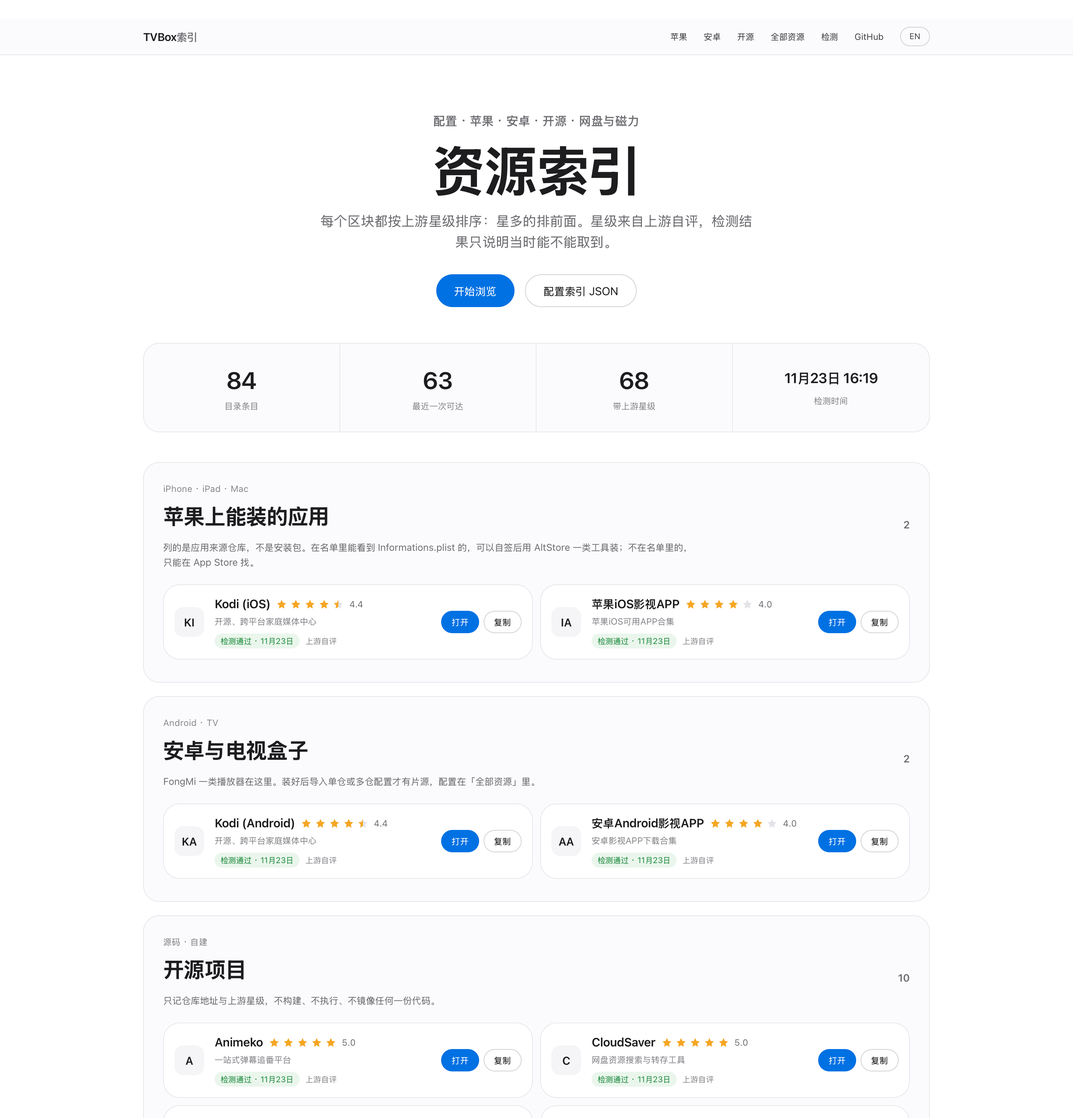
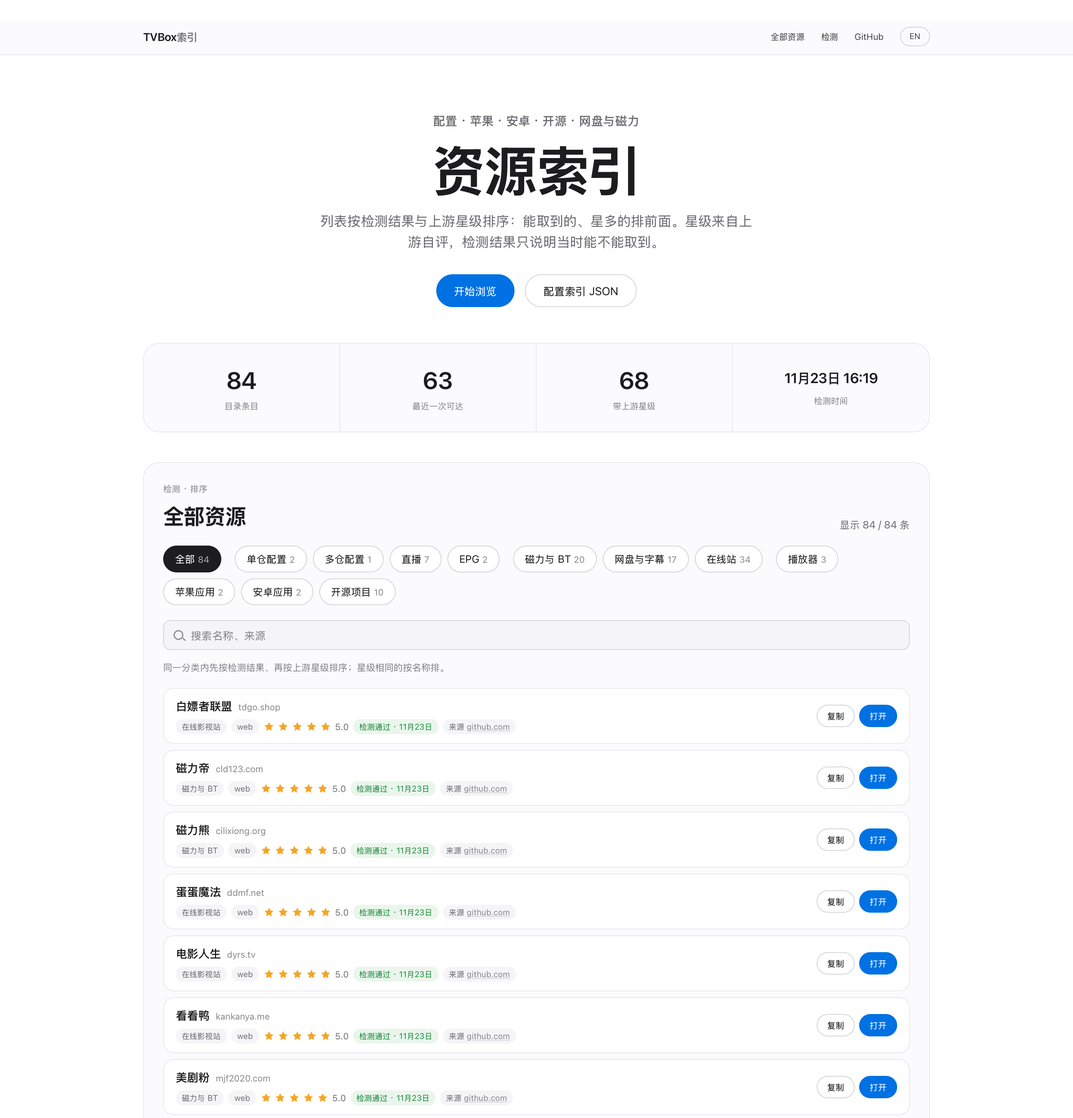
Collapse the four panels into one catalog panel with category tabs
Every entry was rendered twice — once in a hero card section, once in the
list. The sections also gave two-item categories a full-width band. Drop
them: one panel, twelve tabs with counts, one rendering per row.

Tab groups separate config, live, browser, app and repository entries. Sort
order, rating glyphs and probe display are unchanged.

diff --git a/app.js b/app.js
@@ -19,14 +19,6 @@ const CATALOGS = [
   { file: 'catalog/online.json', category: 'online' },
 ];
 
-// Cards are shown only where they hold something: the rest is the sortable list.
-const PANELS = {
-  apple: ['apps-ios'],
-  android: ['apps-android'],
-  opensource: ['tools'],
-  web: ['online', 'search', 'magnet', 'apps'],
-};
-
 const IMPORTABLE = new Set(['vod-single', 'vod-multi', 'live', 'epg']);
 const WEB_ONLY = new Set(['online', 'magnet', 'search', 'apps', 'tools']);
 const CONFIG_INDEX_IDS = new Set(['tvapi-plus-custom-single', 'xiaoma-tvbox-config']);
@@ -40,28 +32,16 @@ const STAR_DEFS = `<svg class="star-defs" aria-hidden="true" width="0" height="0
 
 const TEXT = {
   zh: {
-    navApple: '苹果', navAndroid: '安卓', navOpenSource: '开源', navCatalog: '全部资源', navVerification: '检测',
+    navCatalog: '全部资源', navVerification: '检测',
     heroEyebrow: '配置 · 苹果 · 安卓 · 开源 · 网盘与磁力',
     heroTitle: '资源索引',
-    heroSub: '每个区块都按上游星级排序：星多的排前面。星级来自上游自评，检测结果只说明当时能不能取到。',
+    heroSub: '列表按检测结果与上游星级排序：能取到的、星多的排前面。星级来自上游自评，检测结果只说明当时能不能取到。',
     explore: '开始浏览', openIndex: '配置索引 JSON',
     statTotal: '目录条目', statReachable: '最近一次可达', statRated: '带上游星级', statChecked: '检测时间',
-    panelAppleEyebrow: 'iPhone · iPad · Mac',
-    panelAppleTitle: '苹果上能装的应用',
-    panelAppleLead: '列的是应用来源仓库，不是安装包。在名单里能看到 Informations.plist 的，可以自签后用 AltStore 一类工具装；不在名单里的，只能在 App Store 找。',
-    panelAndroidEyebrow: 'Android · TV',
-    panelAndroidTitle: '安卓与电视盒子',
-    panelAndroidLead: 'FongMi 一类播放器在这里。装好后导入单仓或多仓配置才有片源，配置在「全部资源」里。',
-    panelOpenSourceEyebrow: '源码 · 自建',
-    panelOpenSourceTitle: '开源项目',
-    panelOpenSourceLead: '只记仓库地址与上游星级，不构建、不执行、不镜像任何一份代码。',
-    panelWebEyebrow: '浏览器 · 无需安装',
-    panelWebTitle: '在线站与搜索',
-    panelWebLead: '网盘、字幕与磁力搜索都是网页入口，复制到播放器里不会生效。',
     listEyebrow: '检测 · 排序',
     listTitle: '全部资源',
     allCategories: '全部', single: '单仓配置', multi: '多仓配置', live: '直播', epg: 'EPG',
-    magnet: '磁力与 BT', searchSites: '网盘与字幕', onlineSites: '在线站', apps: '播放器', tools: '工具', via: '来源',
+    magnet: '磁力与 BT', searchSites: '网盘与字幕', onlineSites: '在线站', apps: '播放器', "apps-ios": '苹果应用', "apps-android": '安卓应用', tools: '开源项目', via: '来源',
     searchLabel: '搜索资源', searchPlaceholder: '搜索名称、来源',
     result: (shown, total) => `显示 ${shown} / ${total} 条`,
     hintAll: '同一分类内先按检测结果、再按上游星级排序；星级相同的按名称排。',
@@ -91,28 +71,16 @@ const TEXT = {
     loadError: '目录文件读取失败，请刷新重试。',
   },
   en: {
-    navApple: 'Apple', navAndroid: 'Android', navOpenSource: 'Open source', navCatalog: 'All resources', navVerification: 'Checks',
+    navCatalog: 'All resources', navVerification: 'Checks',
     heroEyebrow: 'Configs · Apple · Android · Open source · Cloud & magnet',
     heroTitle: 'Resource index',
-    heroSub: 'Every section is ordered by the upstream star rating, highest first. Stars are the upstream self-assessment; a check only says the URL answered.',
+    heroSub: 'The list is ordered by check result, then by upstream stars: reachable and well-rated first. Stars are the upstream self-assessment; a check only says the URL answered.',
     explore: 'Start browsing', openIndex: 'Config index JSON',
     statTotal: 'Catalog entries', statReachable: 'Reachable last check', statRated: 'With upstream stars', statChecked: 'Checked',
-    panelAppleEyebrow: 'iPhone · iPad · Mac',
-    panelAppleTitle: 'Apps for Apple devices',
-    panelAppleLead: 'These are app repositories, not installers. If a repository lists Informations.plist you can sign it yourself and install with a tool like AltStore; anything else has to come from the App Store.',
-    panelAndroidEyebrow: 'Android · TV',
-    panelAndroidTitle: 'Android and TV boxes',
-    panelAndroidLead: 'FongMi-style players live here. They need a single or multi config before there is anything to watch; configs are under All resources.',
-    panelOpenSourceEyebrow: 'Source · self-host',
-    panelOpenSourceTitle: 'Open-source projects',
-    panelOpenSourceLead: 'Repository links and upstream stars only. Nothing is built, executed or mirrored.',
-    panelWebEyebrow: 'Browser · nothing to install',
-    panelWebTitle: 'Streaming sites and search',
-    panelWebLead: 'Cloud-drive, subtitle and magnet search sites are browser destinations; pasting them into a player does nothing.',
     listEyebrow: 'Checks · order',
     listTitle: 'All resources',
     allCategories: 'All', single: 'Single config', multi: 'Multi config', live: 'Live', epg: 'EPG',
-    magnet: 'Magnet & BT', searchSites: 'Cloud search & subs', onlineSites: 'Streaming sites', apps: 'Players', tools: 'Tools', via: 'via',
+    magnet: 'Magnet & BT', searchSites: 'Cloud search & subs', onlineSites: 'Streaming sites', apps: 'Players', "apps-ios": 'Apple apps', "apps-android": 'Android apps', tools: 'Open source', via: 'via',
     searchLabel: 'Search resources', searchPlaceholder: 'Search name or source',
     result: (shown, total) => `Showing ${shown} of ${total}`,
     hintAll: 'Within a category: passing checks first, then the higher upstream rating, then name.',
@@ -199,12 +167,6 @@ function displayHost(value) {
   }
 }
 
-function initials(name) {
-  const trimmed = String(name || '?').trim();
-  const latin = trimmed.match(/[A-Za-z0-9]+/g);
-  return latin ? latin.map((part) => part[0]).join('').slice(0, 2) : trimmed.slice(0, 1);
-}
-
 function starRow(average) {
   if (typeof average !== 'number' || !Number.isFinite(average)) return '';
   const rounded = Math.round(Math.max(0, Math.min(5, average)) * 2) / 2;
@@ -249,30 +211,12 @@ function sortEntries(list, probeIds) {
   });
 }
 
-function actionsFor(entry, compact) {
+function actionsFor(entry) {
   const href = safeHref(entry.url);
   if (!href) return '';
   const copy = `<button class="act" type="button" data-copy-url="${escapeHTML(entry.url)}">${escapeHTML(t().copy)}</button>`;
-  const open = `<a class="act act--fill" href="${escapeHTML(href)}" target="_blank" rel="noreferrer" title="${escapeHTML(`${t().open}: ${entry.name}`)}">${escapeHTML(compact ? t().open : t().open)}</a>`;
-  return compact ? open + copy : copy + open;
-}
-
-function renderCard(entry, rank) {
-  const href = safeHref(entry.url);
-  const notes = String(entry.notes || '').replace(/^Upstream description:\s*/i, '').split(/(?<=。)|\.\s/)[0];
-  const rating = ratingOf(entry) === null ? '' : starRow(ratingOf(entry));
-  return `<li class="card${rank <= 3 && entry.rating ? ' card--rank' : ''}">
-    <span class="card-icon" aria-hidden="true">${escapeHTML(initials(entry.name))}</span>
-    <div class="card-body">
-      <div class="card-head">
-        ${href ? `<a class="card-name" href="${escapeHTML(href)}" target="_blank" rel="noreferrer">${escapeHTML(entry.name)}</a>` : `<span class="card-name">${escapeHTML(entry.name)}</span>`}
-        ${rating}
-      </div>
-      <p class="card-desc">${escapeHTML(notes || entry.url)}</p>
-      <div class="card-foot">${probeChip(entry)}<span class="rating-label">${escapeHTML(t().ratedAs)}</span></div>
-    </div>
-    <div class="card-actions">${actionsFor(entry, true)}</div>
-  </li>`;
+  const open = `<a class="act act--fill" href="${escapeHTML(href)}" target="_blank" rel="noreferrer" title="${escapeHTML(`${t().open}: ${entry.name}`)}">${escapeHTML(t().open)}</a>`;
+  return copy + open;
 }
 
 function renderRow(entry) {
@@ -301,7 +245,7 @@ function renderRow(entry) {
         ${source}
       </div>
     </div>
-    <div class="row-actions">${actionsFor(entry, false)}</div>
+    <div class="row-actions">${actionsFor(entry)}</div>
   </article>`;
 }
 
@@ -309,18 +253,6 @@ function reachableIds() {
   const ids = new Set(entries.map((entry) => entry.id));
   return new Set((probeReport?.probes || [])
     .filter((probe) => probe.status === 'ok' && ids.has(probe.id)).map((probe) => probe.id));
-}
-
-function renderPanels() {
-  const passed = reachableIds();
-  Object.entries(PANELS).forEach(([panel, categories]) => {
-    const container = document.querySelector(`[data-cards="${panel === 'apple' ? 'apps-ios' : panel === 'android' ? 'apps-android' : panel}"]`);
-    if (!container) return;
-    const rows = dedupe(sortEntries(entries.filter((entry) => categories.includes(entry._category)), passed));
-    container.innerHTML = rows.map((entry, index) => renderCard(entry, index + 1)).join('');
-    const counter = document.querySelector(`[data-panel-count="${panel}"]`);
-    if (counter) counter.textContent = String(rows.length);
-  });
 }
 
 function applyLanguage() {
@@ -371,7 +303,6 @@ function render() {
     const key = counter.dataset.countFor;
     counter.textContent = String(new Set(entries.filter((entry) => key === 'all' || entry._category === key).map((entry) => entry.url)).size);
   });
-  renderPanels();
 }
 
 function renderVerification(report) {

diff --git a/index.html b/index.html
@@ -16,9 +16,6 @@
     <div class="nav-inner">
       <a class="nav-brand" href="#top" aria-label="TVBox 资源索引首页">TVBox<span>索引</span></a>
       <nav class="nav-links" aria-label="主导航">
-        <a href="#panel-apple" data-i18n="navApple">苹果</a>
-        <a href="#panel-android" data-i18n="navAndroid">安卓</a>
-        <a href="#panel-opensource" data-i18n="navOpenSource">开源</a>
         <a href="#list-panel" data-i18n="navCatalog">全部资源</a>
         <a href="#verification" data-i18n="navVerification">检测</a>
         <a href="https://github.com/hnnwb/tvapi_plus" target="_blank" rel="noreferrer">GitHub</a>
@@ -31,9 +28,9 @@
     <section class="hero">
       <p class="hero-eyebrow" data-i18n="heroEyebrow">配置 · 苹果 · 安卓 · 开源 · 网盘与磁力</p>
       <h1 id="page-title" data-i18n="heroTitle">资源索引</h1>
-      <p class="hero-sub" data-i18n="heroSub">每个区块都按上游星级排序：星多的排前面。星级来自上游自评，检测结果只说明当时能不能取到。</p>
+      <p class="hero-sub" data-i18n="heroSub">列表按检测结果与上游星级排序：能取到的、星多的排前面。星级来自上游自评，检测结果只说明当时能不能取到。</p>
       <div class="hero-actions">
-        <a class="btn btn-fill" href="#panel-apple"><span data-i18n="explore">开始浏览</span></a>
+        <a class="btn btn-fill" href="#list-panel"><span data-i18n="explore">开始浏览</span></a>
         <a class="btn btn-line" href="configs.json" target="_blank" rel="noreferrer" data-i18n="openIndex">配置索引 JSON</a>
       </div>
     </section>
@@ -43,56 +40,6 @@
       <div class="stat"><span class="stat-num" id="verified-count">—</span><span class="stat-label" data-i18n="statReachable">最近一次可达</span></div>
       <div class="stat"><span class="stat-num" id="rated-count">—</span><span class="stat-label" data-i18n="statRated">带上游星级</span></div>
       <div class="stat"><span class="stat-num stat-num--text" id="checked-at">—</span><span class="stat-label" data-i18n="statChecked">检测时间</span></div>
-    </section>
-
-    <section class="panels" id="panels">
-      <article class="panel" id="panel-apple" data-panel="apple" aria-labelledby="panel-apple-title">
-        <header class="panel-head">
-          <div>
-            <p class="panel-eyebrow" data-i18n="panelAppleEyebrow">iPhone · iPad · Mac</p>
-            <h2 id="panel-apple-title" data-i18n="panelAppleTitle">苹果上能装的应用</h2>
-          </div>
-          <span class="panel-count"><i data-panel-count="apple">0</i></span>
-        </header>
-        <p class="panel-lead" data-i18n="panelAppleLead">列的是应用来源仓库，不是安装包。在名单里能看到 Informations.plist 的，可以自签后用 AltStore 一类工具装；不在名单里的，只能在 App Store 找。</p>
-        <ul class="cards" data-cards="apps-ios"></ul>
-      </article>
-
-      <article class="panel" id="panel-android" data-panel="android" aria-labelledby="panel-android-title">
-        <header class="panel-head">
-          <div>
-            <p class="panel-eyebrow" data-i18n="panelAndroidEyebrow">Android · TV</p>
-            <h2 id="panel-android-title" data-i18n="panelAndroidTitle">安卓与电视盒子</h2>
-          </div>
-          <span class="panel-count"><i data-panel-count="android">0</i></span>
-        </header>
-        <p class="panel-lead" data-i18n="panelAndroidLead">FongMi 一类播放器在这里。装好后导入单仓或多仓配置才有片源，配置在「全部资源」里。</p>
-        <ul class="cards" data-cards="apps-android"></ul>
-      </article>
-
-      <article class="panel" id="panel-opensource" data-panel="opensource" aria-labelledby="panel-opensource-title">
-        <header class="panel-head">
-          <div>
-            <p class="panel-eyebrow" data-i18n="panelOpenSourceEyebrow">源码 · 自建</p>
-            <h2 id="panel-opensource-title" data-i18n="panelOpenSourceTitle">开源项目</h2>
-          </div>
-          <span class="panel-count"><i data-panel-count="opensource">0</i></span>
-        </header>
-        <p class="panel-lead" data-i18n="panelOpenSourceLead">只记仓库地址与上游星级，不构建、不执行、不镜像任何一份代码。</p>
-        <ul class="cards" data-cards="opensource"></ul>
-      </article>
-
-      <article class="panel" id="panel-web" data-panel="web" aria-labelledby="panel-web-title">
-        <header class="panel-head">
-          <div>
-            <p class="panel-eyebrow" data-i18n="panelWebEyebrow">浏览器 · 无需安装</p>
-            <h2 id="panel-web-title" data-i18n="panelWebTitle">在线站与搜索</h2>
-          </div>
-          <span class="panel-count"><i data-panel-count="web">0</i></span>
-        </header>
-        <p class="panel-lead" data-i18n="panelWebLead">网盘、字幕与磁力搜索都是网页入口，复制到播放器里不会生效。</p>
-        <ul class="cards" data-cards="web"></ul>
-      </article>
     </section>
 
     <section class="list-panel" id="list-panel" aria-labelledby="list-title">
@@ -105,15 +52,17 @@
       </header>
       <div class="tabs" id="tabs" role="tablist" aria-label="资源分类">
         <button class="tab is-active" type="button" role="tab" data-category="all" aria-selected="true"><span data-i18n="allCategories">全部</span> <i data-count-for="all">0</i></button>
-        <button class="tab" type="button" role="tab" data-category="vod-single" aria-selected="false"><span data-i18n="single">单仓配置</span> <i data-count-for="vod-single">0</i></button>
+        <button class="tab group-start" type="button" role="tab" data-category="vod-single" aria-selected="false"><span data-i18n="single">单仓配置</span> <i data-count-for="vod-single">0</i></button>
         <button class="tab" type="button" role="tab" data-category="vod-multi" aria-selected="false"><span data-i18n="multi">多仓配置</span> <i data-count-for="vod-multi">0</i></button>
         <button class="tab" type="button" role="tab" data-category="live" aria-selected="false"><span data-i18n="live">直播</span> <i data-count-for="live">0</i></button>
         <button class="tab" type="button" role="tab" data-category="epg" aria-selected="false"><span data-i18n="epg">EPG</span> <i data-count-for="epg">0</i></button>
-        <button class="tab" type="button" role="tab" data-category="magnet" aria-selected="false"><span data-i18n="magnet">磁力与 BT</span> <i data-count-for="magnet">0</i></button>
+        <button class="tab group-start" type="button" role="tab" data-category="magnet" aria-selected="false"><span data-i18n="magnet">磁力与 BT</span> <i data-count-for="magnet">0</i></button>
         <button class="tab" type="button" role="tab" data-category="search" aria-selected="false"><span data-i18n="searchSites">网盘与字幕</span> <i data-count-for="search">0</i></button>
         <button class="tab" type="button" role="tab" data-category="online" aria-selected="false"><span data-i18n="onlineSites">在线站</span> <i data-count-for="online">0</i></button>
-        <button class="tab" type="button" role="tab" data-category="apps" aria-selected="false"><span data-i18n="apps">播放器</span> <i data-count-for="apps">0</i></button>
-        <button class="tab" type="button" role="tab" data-category="tools" aria-selected="false"><span data-i18n="tools">工具</span> <i data-count-for="tools">0</i></button>
+        <button class="tab group-start" type="button" role="tab" data-category="apps" aria-selected="false"><span data-i18n="apps">播放器</span> <i data-count-for="apps">0</i></button>
+        <button class="tab" type="button" role="tab" data-category="apps-ios" aria-selected="false"><span data-i18n="apps-ios">苹果应用</span> <i data-count-for="apps-ios">0</i></button>
+        <button class="tab" type="button" role="tab" data-category="apps-android" aria-selected="false"><span data-i18n="apps-android">安卓应用</span> <i data-count-for="apps-android">0</i></button>
+        <button class="tab" type="button" role="tab" data-category="tools" aria-selected="false"><span data-i18n="tools">开源项目</span> <i data-count-for="tools">0</i></button>
       </div>
       <div class="toolbar">
         <label class="search"><span class="search-icon" aria-hidden="true"></span><span class="sr-only" data-i18n="searchLabel">搜索资源</span><input id="search" type="search" placeholder="搜索名称、来源" autocomplete="off"></label>

diff --git a/styles.css b/styles.css
@@ -67,32 +67,13 @@ h1 { font-size: clamp(44px, 7vw, 76px); font-weight: 700; line-height: 1.05; let
 .stat-num--text { font-size: 19px; line-height: 40px; }
 .stat-label { display: block; margin-top: 2px; color: var(--ink-3); font-size: 12px; }
 
-/* panels */
-.panels { display: grid; gap: 18px; padding: 40px 0 8px; }
-.panel, .list-panel { padding: 26px 26px 30px; border: 1px solid var(--line-soft); border-radius: var(--radius); background: var(--fill-2); }
-.list-panel { margin: 18px 0 0; }
+/* catalog panel */
+.list-panel { margin: 40px 0 0; padding: 26px 26px 30px; border: 1px solid var(--line-soft); border-radius: var(--radius); background: var(--fill-2); }
 .panel-head { display: flex; flex-wrap: wrap; align-items: flex-end; justify-content: space-between; gap: 12px; }
 .panel-eyebrow { margin-bottom: 6px; color: var(--ink-3); font-size: 12px; letter-spacing: .01em; }
-.panel-lead { max-width: 720px; margin: 10px 0 20px; color: var(--ink-2); font-size: 13px; line-height: 1.55; }
 .panel-count { color: var(--ink-2); font-size: 14px; }
 .panel-count i { font-style: normal; font-weight: 600; }
 h2 { font-size: 30px; font-weight: 700; letter-spacing: -.022em; }
-
-/* cards */
-.cards { display: grid; gap: 10px; margin: 0; padding: 0; list-style: none; }
-@media (min-width: 900px) { .cards { grid-template-columns: 1fr 1fr; } }
-.card { display: grid; grid-template-columns: 40px minmax(0, 1fr) auto; align-items: center; gap: 14px; padding: 14px; border: 1px solid var(--line-soft); border-radius: var(--radius); background: #fff; transition: border-color .18s ease, box-shadow .18s ease; }
-.card:hover { border-color: var(--line); box-shadow: 0 2px 14px rgba(0,0,0,.06); }
-.card--rank { position: relative; }
-.card-rank { position: absolute; top: 10px; left: 44px; color: var(--ink-3); font-size: 11px; }
-.card-icon { display: grid; width: 40px; height: 40px; place-items: center; border-radius: 12px; background: var(--fill); color: var(--ink); font-size: 15px; font-weight: 600; text-transform: uppercase; }
-.card-body { min-width: 0; }
-.card-head { display: flex; flex-wrap: wrap; align-items: center; gap: 8px; }
-.card-name { color: var(--ink); font-size: 16px; font-weight: 600; letter-spacing: -.01em; overflow-wrap: anywhere; }
-.card-name:hover { text-decoration: underline; }
-.card-desc { margin-top: 3px; overflow: hidden; color: var(--ink-3); font-size: 12px; text-overflow: ellipsis; white-space: nowrap; }
-.card-foot { display: flex; flex-wrap: wrap; align-items: center; gap: 8px; margin-top: 8px; }
-.card-actions { display: flex; gap: 6px; }
 
 /* ratings */
 .stars { display: inline-flex; align-items: center; gap: 5px; }
@@ -102,7 +83,9 @@ h2 { font-size: 30px; font-weight: 700; letter-spacing: -.022em; }
 .rating-label { color: var(--ink-3); font-size: 11px; }
 
 /* tabs and toolbar */
-.tabs { display: flex; gap: 8px; margin: 18px 0 18px; overflow-x: auto; scrollbar-width: none; padding-bottom: 2px; }
+.tabs { display: flex; flex-wrap: wrap; gap: 8px; margin: 18px 0 18px; padding-bottom: 2px; }
+.tab.group-start { margin-left: 10px; }
+.tab.group-start:first-child { margin-left: 0; }
 .tabs::-webkit-scrollbar { display: none; }
 .tab { flex: 0 0 auto; padding: 7px 15px; border: 1px solid var(--line); border-radius: 980px; background: #fff; color: var(--ink); cursor: pointer; font-size: 14px; white-space: nowrap; transition: background .18s ease, border-color .18s ease, color .18s ease; }
 .tab i { color: var(--ink-3); font-style: normal; font-size: 12px; }
@@ -173,12 +156,6 @@ h2 { font-size: 30px; font-weight: 700; letter-spacing: -.022em; }
 .foot-inner p { max-width: 560px; }
 a:focus-visible, button:focus-visible, input:focus-visible { outline: 2px solid var(--blue); outline-offset: 2px; }
 
-@media (max-width: 620px) {
-  .card { grid-template-columns: 36px minmax(0, 1fr); gap: 12px; padding: 13px 14px; }
-  .card-icon { width: 36px; height: 36px; font-size: 14px; }
-  .card-actions { grid-column: 1 / -1; justify-content: flex-end; }
-  .chip { white-space: nowrap; }
-}
 @media (max-width: 900px) {
   .rating-label { display: none; }
   .stars { gap: 2px; }
@@ -193,7 +170,10 @@ a:focus-visible, button:focus-visible, input:focus-visible { outline: 2px solid 
   .stat { border-bottom: 1px solid var(--line-soft); }
   .stat:nth-child(2) { border-right: 0; }
   .stat:nth-child(3), .stat:nth-child(4) { border-bottom: 0; }
-  .panel, .list-panel { padding: 20px 16px 22px; }
+  .list-panel { padding: 20px 16px 22px; }
+  .tabs { flex-wrap: nowrap; overflow-x: auto; scrollbar-width: none; }
+  .tab.group-start { margin-left: 6px; }
+  .tabs::-webkit-scrollbar { display: none; }
   .row { grid-template-columns: 1fr; gap: 10px; }
   .row-actions { justify-content: flex-start; }
   .rules { grid-template-columns: 1fr; }

diff --git a/README.en.md b/README.en.md
@@ -119,7 +119,7 @@ Do not execute unknown plugins in this repository or CI. Without the selected si
 
 ## Publishing
 
-The catalog JSON files are the canonical data and also drive the bilingual static catalog site. The page opens with four panels — Apple apps, Android and TV boxes, open-source projects, and browser sites — followed by the full filterable list. Both the panels and the list sort by passing check first, then higher upstream rating, then name. Stars are drawn as half-star glyphs with the numeric value alongside and are hidden below 900px. The site searches names, formats, and sources, and filters by category. It displays automated link-probe results but never runs source plugins. A GitHub Pages workflow deploys on pushes to `main`; before the first deployment, a repository administrator must set Settings → Pages → Source to GitHub Actions. Catalog URLs point to upstream resources; they are not mirrored by this repository.
+The catalog JSON files are the canonical data and also drive the bilingual static catalog site. The page is a single catalog panel whose categories are tabs — single and multi configs, live, EPG, magnet and BT, cloud search and subtitles, streaming sites, players, Apple apps, Android apps, and open-source projects — each with its own count. Rows sort by passing check first, then higher upstream rating, then name. Stars are drawn as half-star glyphs with the numeric value alongside, and shrink to small glyphs on narrow screens. The site searches names, formats, and sources, and filters by category. It displays automated link-probe results but never runs source plugins. A GitHub Pages workflow deploys on pushes to `main`; before the first deployment, a repository administrator must set Settings → Pages → Source to GitHub Actions. Catalog URLs point to upstream resources; they are not mirrored by this repository.
 
 “Broad coverage” is an ongoing collection and review process, not indiscriminate copying. Entries need traceable provenance, a basis for linking, and a stated format; actual playback claims require client test evidence.
 

diff --git a/README.md b/README.md
@@ -105,7 +105,7 @@ python3 scripts/refresh_status.py --request-profile tvbox --report /tmp/probe-re
 
 ## 发布方式
 
-分类 JSON 文件是目录的原始数据，也驱动仓库内的双语静态目录页。页面上半部是四个区块——苹果应用、安卓与电视盒子、开源项目、在线站与搜索——下半部是完整的可筛选列表；区块与列表统一按「检测通过优先、再按上游星级降序、最后按名称」排序。星级以半星显示并附数字，只出现在宽于 900px 的视口。页面支持按名称/格式/来源搜索，并按类别筛选；它展示自动链接探测结果，但不会替用户运行源插件。GitHub Pages 发布工作流在 push 到 `main` 时部署静态页面；首次发布前，仓库管理员需在 Settings → Pages 中将 Source 设为 GitHub Actions。这里记录的 URL 指向上游，不是本仓库托管的镜像。
+分类 JSON 文件是目录的原始数据，也驱动仓库内的双语静态目录页。页面只有一个列表板块，分类用标签页切换（单仓、多仓、直播、EPG、磁力与 BT、网盘与字幕、在线站、播放器、苹果应用、安卓应用、开源项目），标签页后带各自条数；列表按「检测通过优先、再按上游星级降序、最后按名称」排序。星级以半星显示并附数字，窄屏则缩成小号星形。页面支持按名称/格式/来源搜索，并按类别筛选；它展示自动链接探测结果，但不会替用户运行源插件。GitHub Pages 发布工作流在 push 到 `main` 时部署静态页面；首次发布前，仓库管理员需在 Settings → Pages 中将 Source 设为 GitHub Actions。这里记录的 URL 指向上游，不是本仓库托管的镜像。
 
 “尽量完整”通过持续收集和审核实现，不等于无差别搬运。只有出处、引用权限和格式可说明的条目才能进入目录；任何实际播放测试声明都必须有客户端测试证据。
 
